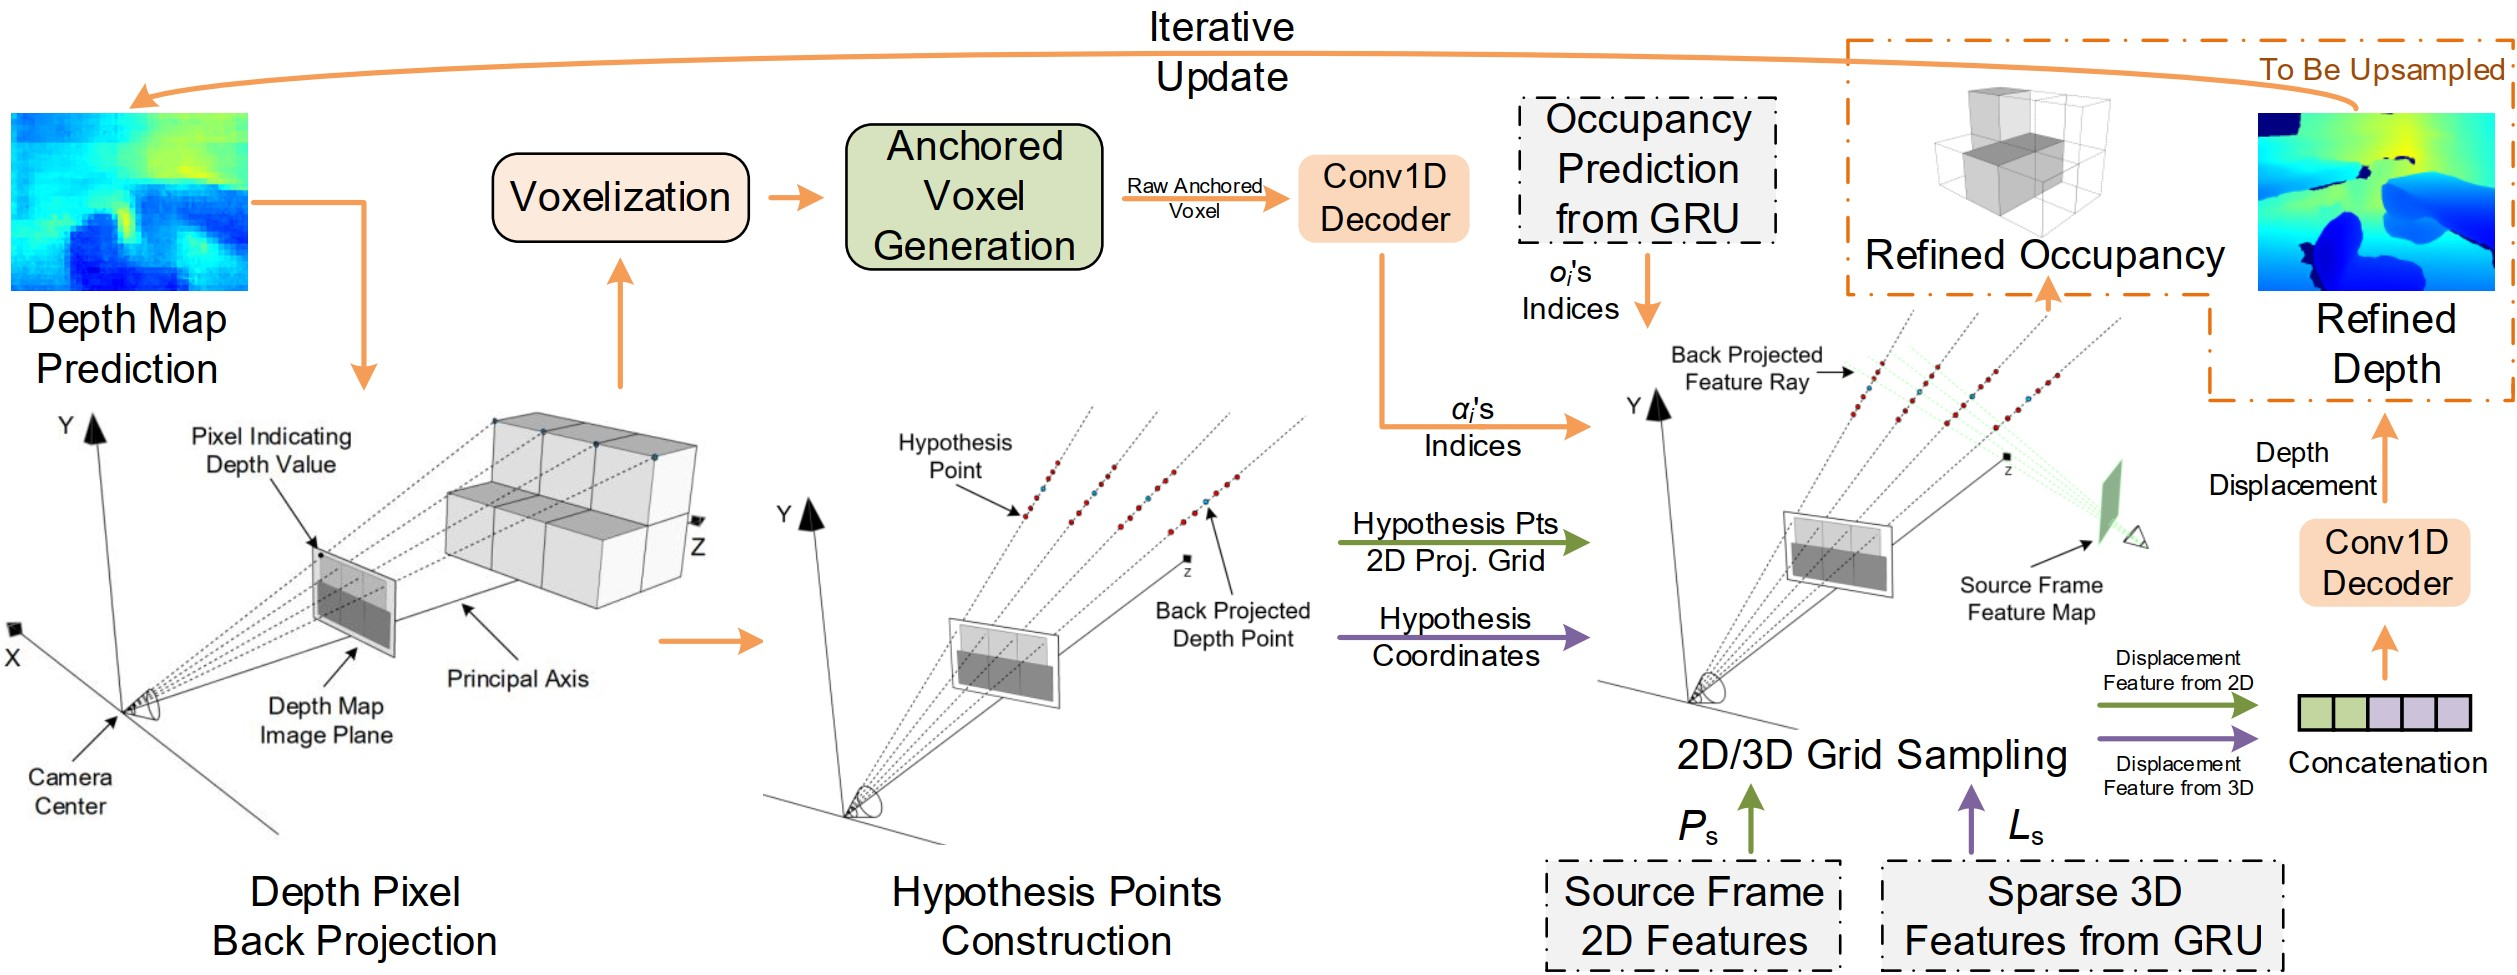
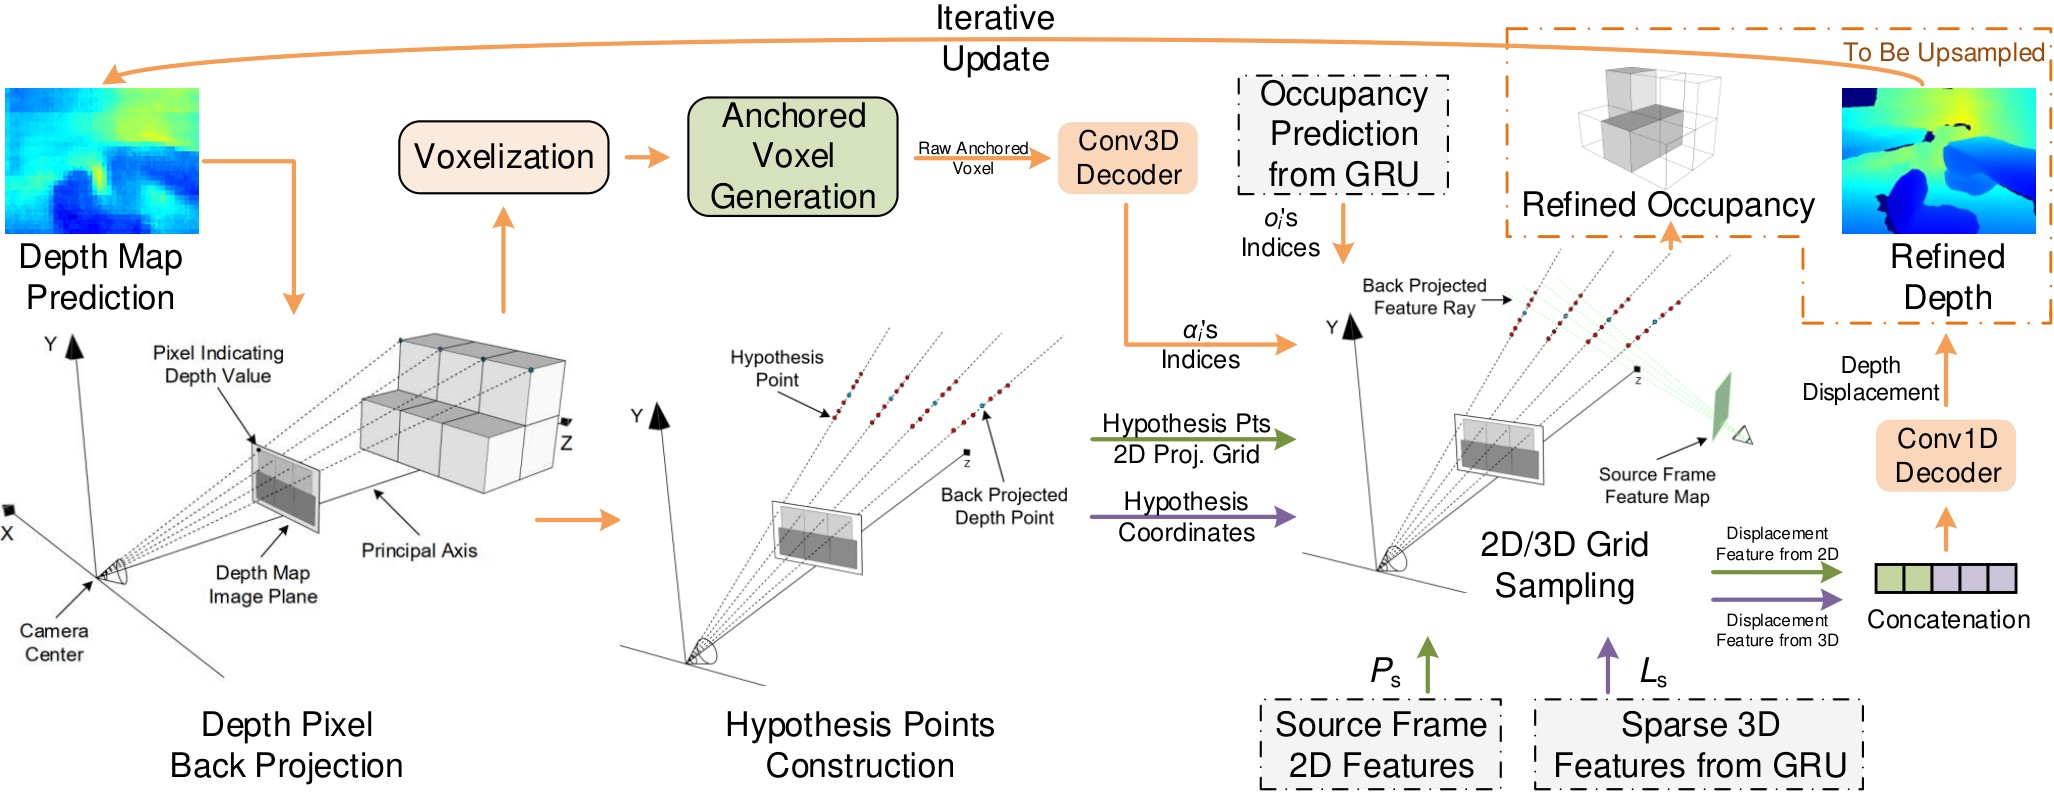
update jbi'19 & cdrnet

diff --git a/portfolio.html b/portfolio.html
@@ -46,7 +46,7 @@
   <div class="row content">
     <div class="col-6">
       <p style= "padding-top: 20px">
-        I do play basketball for a long time. Here is <a href="https://www.hk01.com/Jumper/360756">one of my post-game interview reports</a> during Jordan Brand Invitational, as I have been playing for HKUST Men's Basketball Team since 2018. I also enjoy photographing and I will release some of my portfolio sometime later.</p>
+        I do play basketball for a long time. Here is <a href="https://www.hk01.com/Jumper/360756">one of my post-game interview reports</a> during Jordan Brand Invitational 2019, as I have been playing for HKUST Men's Basketball Team since 2018. I also enjoy photographing and I will release some of my portfolio sometime later.</p>
     </div>
     <div class="col-6">
       <a href="https://www.hk01.com/Jumper/360756">

diff --git a/cdrnet/index.html b/cdrnet/index.html
@@ -1,6 +1,8 @@
 <!DOCTYPE html>
 <html>
 <head>
+    ## TODO
+    # 2. UPDATE THE DEPTH REFINEMENT FIGURE; 3. VISUALIZATION OF SEMSEG
   <meta charset="utf-8">
   <meta name="description"
         content="Website of Cross-Dimensional Refined Learning for Real-Time 3D Visual Perception from Monocular Video">
@@ -52,7 +54,7 @@ Monocular Video</title>
           <h1 class="title is-1 publication-title">Cross-Dimensional Refined Learning for Real-Time 3D Visual Perception from
 Monocular Video</h1>
           <p class="title">
-          <h1 style="color:#6e6e6e;"> ICCV 2023 Workshops</h1>
+          <h1 style="color:#6e6e6e;"> In Submission to an IEEE Trans. | ICCV 2023 Workshops</h1>
           </p>
           <hr>
           <div class="is-size-5 publication-authors">
